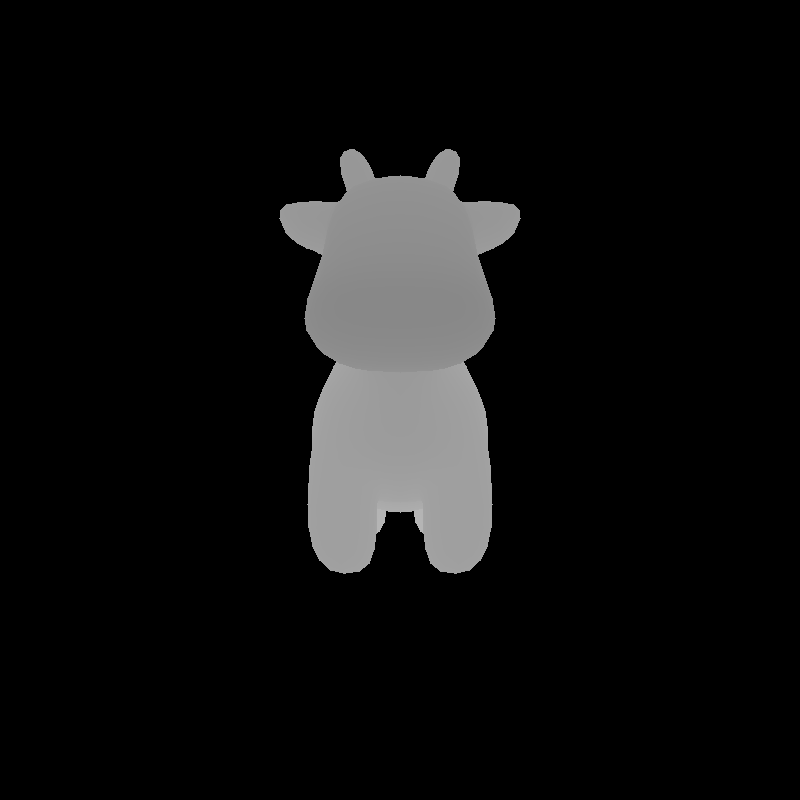
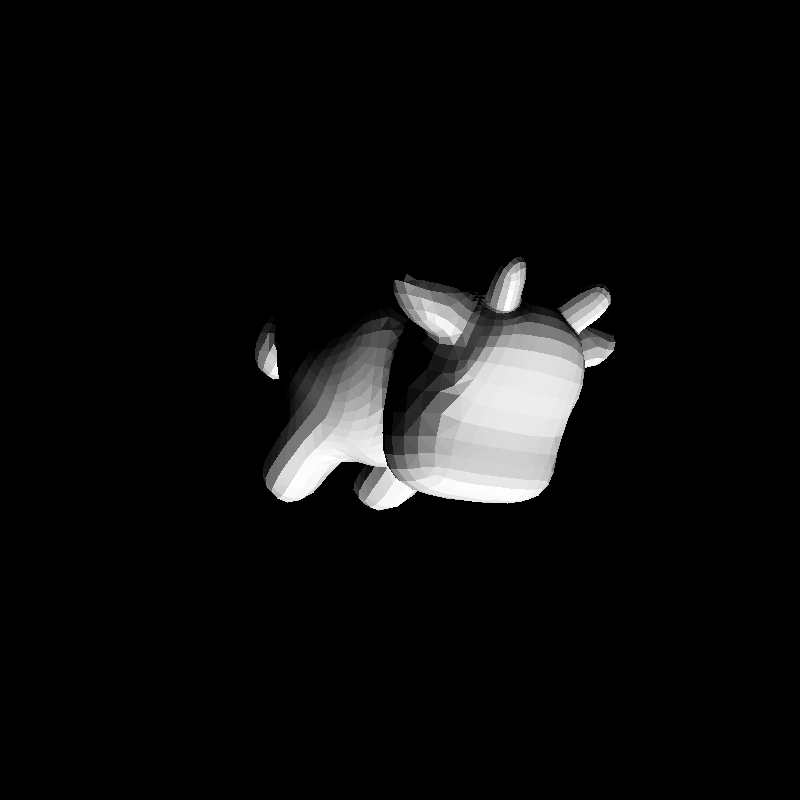
xx

Changed region(s): [[0.3125, 0.1875, 0.7812, 0.7188]]

diff --git a/main.cpp b/main.cpp
@@ -40,7 +40,7 @@ int main(int argc, char* argv[])
 
     std::vector<Eigen::Matrix4f> modelMats(obj_paths.size(), Eigen::Matrix4f::Identity());
     std::vector<std::function<Eigen::Vector3f(const vertex_shader_in&, vertex_shader_out&)>> vertexShaders(obj_paths.size(), point_VertexShader);
-    std::vector<std::function<Eigen::Vector3f(const Point&)>> fragmentShaders(obj_paths.size(), depth_FragmentShader);
+    std::vector<std::function<Eigen::Vector3f(const Point&)>> fragmentShaders(obj_paths.size(), triangle_FragmentShader);
     // modelMats[0] = translate(Eigen::Vector3f(-1.f, 0.f, 0.f));
     // modelMats[1] = translate(Eigen::Vector3f(1.f, 0.f, 0.f));
 

diff --git a/src/renderer.cpp b/src/renderer.cpp
@@ -37,7 +37,7 @@ void Render::drawFrame(const Loader& obj_loader)
 
     for(auto& obj : obj_loader.objects)
     {
-        m_pipeline->set_state(obj.vertexShader, obj.fragmentShader, m_width*m_height/int(obj.indices.size())*3*500, PrimitiveType::TRIANGLE);
+        m_pipeline->set_state(obj.vertexShader, obj.fragmentShader, m_width*m_height/int(obj.indices.size())*3*1000, PrimitiveType::TRIANGLE);
         if(m_pipeline->primitiveType()==PrimitiveType::POINT)
             for(int i=0; i<obj.vertices.size(); i++)
             {
